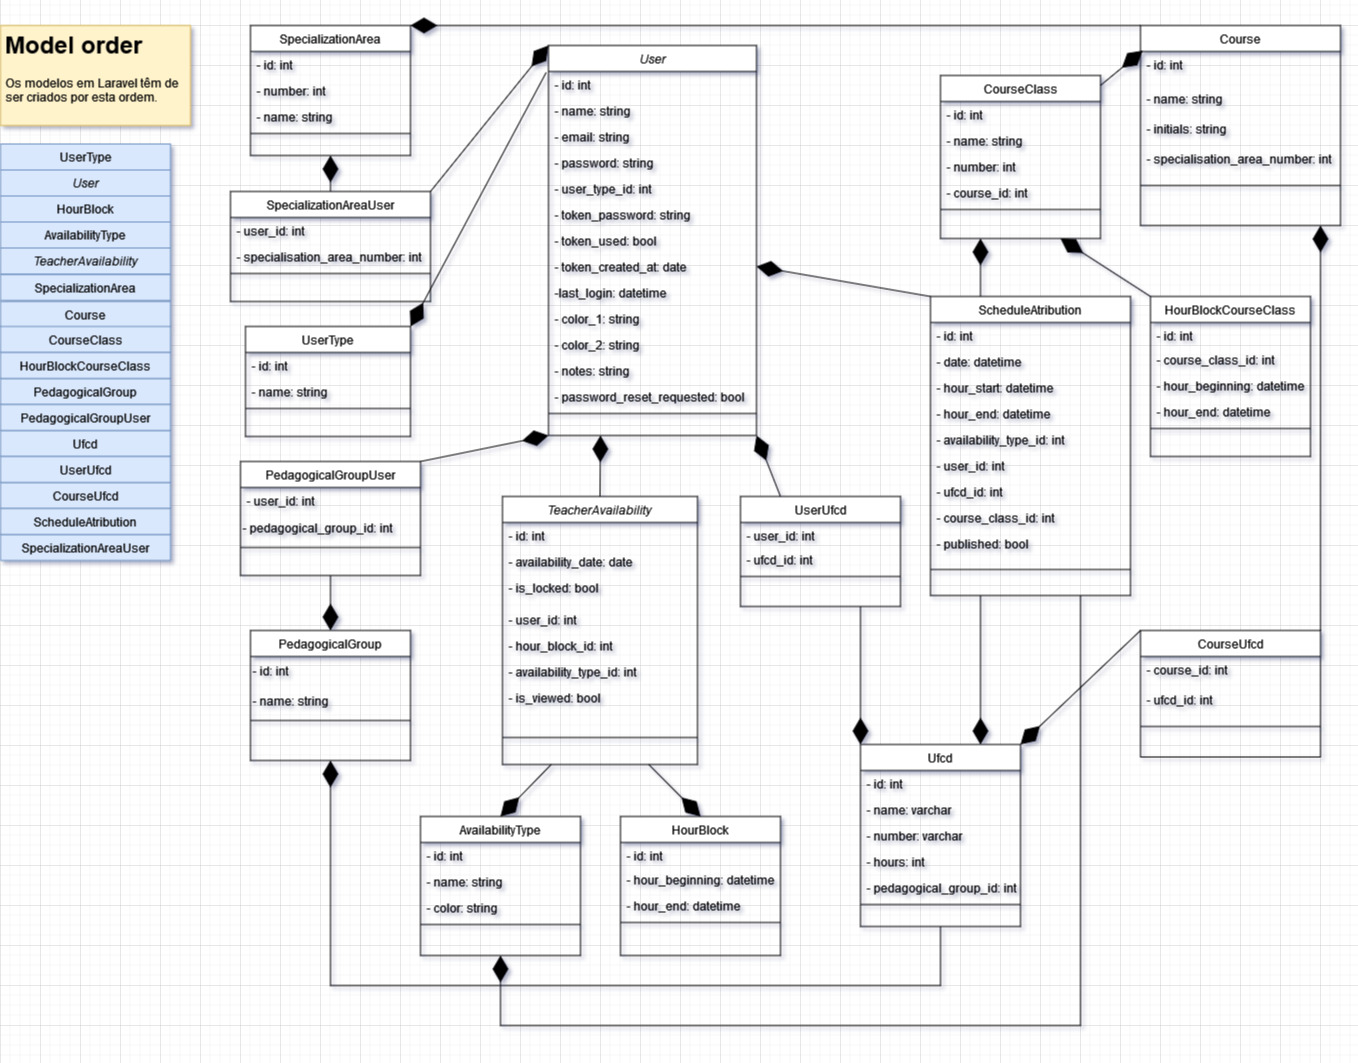
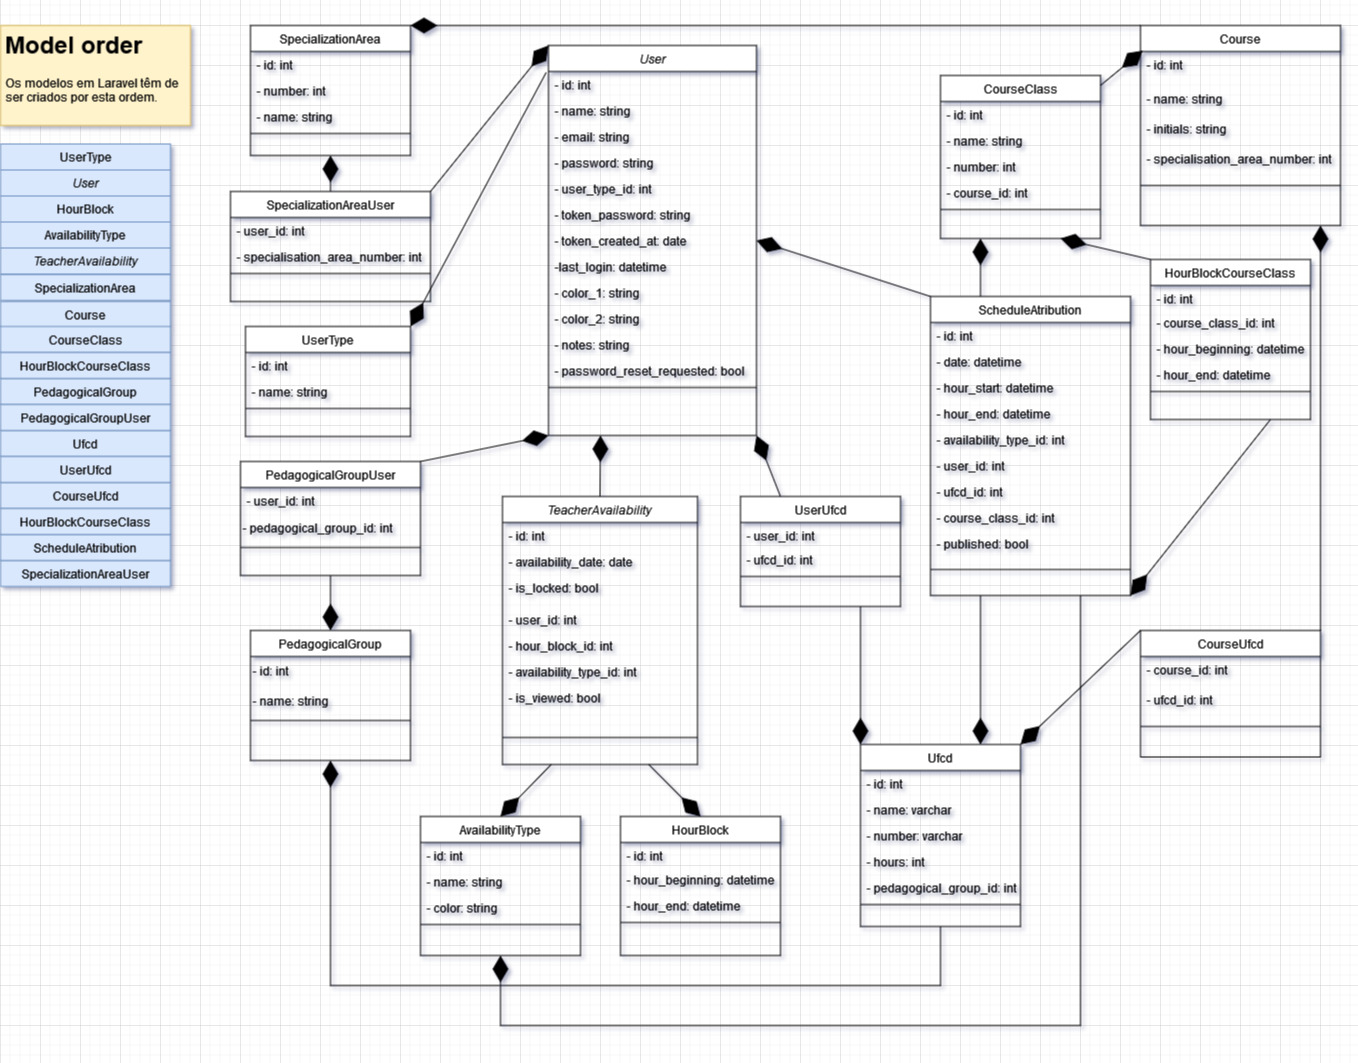
Alterações BD
Criação de relação entre blocos de horarios de uma turma e as suas atribuições
Actualizaçaõ de models, seeders e factories
Actualização de documentação

diff --git a/Projecto/AgileWing/database/factories/ScheduleAtributionFactory.php b/Projecto/AgileWing/database/factories/ScheduleAtributionFactory.php
@@ -1,49 +1,30 @@
 <?php
 
-/**
- * Generates a random time between the specified start and end times.
- *
- * @param string $start The starting time in 'H:i' format.
- * @param string $end The ending time in 'H:i' format.
- * @return string The randomly generated time in 'H:i' format.
- */
-function randomTime($start, $end) {
-    $startTimestamp = strtotime($start);
-    $endTimestamp = strtotime($end);
-
-    // Calculate the number of 15-minute intervals between the start and end timestamps
-    $intervals = ($endTimestamp - $startTimestamp) / (15 * 60);
-
-    // Choose a random interval
-    $randomInterval = mt_rand(0, $intervals - 1);
-
-    // Calculate the random timestamp using the selected interval
-    $randomTimestamp = $startTimestamp + ($randomInterval * 15 * 60);
-
-    return date('H:i', $randomTimestamp);
-}
-
 /** @var \Illuminate\Database\Eloquent\Factory $factory */
 
 use Faker\Generator as Faker;
 use App\ScheduleAtribution;
-use App\AvailabilityType;
+use App\HourBlockCourseClass;
 use App\CourseClass;
 use App\Ufcd;
 use App\User;
 
 $factory->define(ScheduleAtribution::class, function (Faker $faker) {
-    $hourStart = randomTime('08:15', '21:15');
-    $hourEnd = date('H:i', strtotime($hourStart . ' +2 hours'));
-    
-    return [
-        'date'                  => $faker->dateTimeBetween('tomorrow', '+10 days'),
-        'hour_start'            => $hourStart,
-        'hour_end'              => $hourEnd,
-        'availability_type_id'  => $faker->numberBetween(2, 3),
-        'course_class_id'       => CourseClass::all()->random()->id,
-        'ufcd_id'               => Ufcd::all()->random()->id,
-        'user_id'               => User::all()->random()->id,
-    ];
+    // Selects a random CourseClass
+    $courseClass = CourseClass::all()->random();
+    $courseId = $courseClass->course_id;
 
+    // Selects a random hour block that belongs to the selected courseClass.
+    $hourBlockCourseClass = HourBlockCourseClass::where('course_class_id', $courseClass->id)->get()->random();
+
+    // Selects an UFCD that's associated with the same course.
+    $ufcd = $courseClass->course->ufcds->random();
+
+    return [
+        'date' => $faker->dateTimeBetween('tomorrow', '+10 days'),
+        'hour_block_course_class_id' => $hourBlockCourseClass->id,
+        'availability_type_id' => rand(2, 3),
+        'course_class_id' => $courseClass->id,
+        'ufcd_id' => $ufcd->id,
+    ];
 });

diff --git a/Projecto/AgileWing/database/seeds/UserSeeder.php b/Projecto/AgileWing/database/seeds/UserSeeder.php
@@ -30,7 +30,6 @@ class UserSeeder extends Seeder
                 'password'          =>  bcrypt('password'),
                 'user_type_id'      => 1,
                 'token_password'    => bcrypt(Str::random(10)),
-                'token_used'        => true,
                 'token_created_at'  => now(),
                 'last_login'        => now(),
                 'created_at'        => now(),
@@ -43,7 +42,6 @@ class UserSeeder extends Seeder
                 'password'          =>  bcrypt('password'), 
                 'user_type_id'      => 2,
                 'token_password'    => bcrypt(Str::random(10)),
-                'token_used'        => true,
                 'token_created_at'  => now(),
                 'last_login'        => now(),
                 'created_at'        => now(),

diff --git a/Projecto/AgileWing/database/migrations/2023_08_13_110942_create_schedule_atributions_table.php b/Projecto/AgileWing/database/migrations/2023_08_13_110942_create_schedule_atributions_table.php
@@ -16,9 +16,8 @@ class CreateScheduleAtributionsTable extends Migration
         Schema::create('schedule_atributions', function (Blueprint $table) {
             $table->id();
             $table->date('date');
-            $table->time('hour_start');
-            $table->time('hour_end');
             $table->boolean('published')->default(false);
+            $table->foreignid('hour_block_course_class_id')->constrained();
             $table->foreignid('availability_type_id')->constrained();
             $table->foreignid('course_class_id')->constrained()->onDelete('cascade');
             $table->foreignid('ufcd_id')->constrained()->onDelete('cascade');

diff --git a/Projecto/AgileWing/database/seeds/ScheduleAtributionSeeder.php b/Projecto/AgileWing/database/seeds/ScheduleAtributionSeeder.php
@@ -13,9 +13,10 @@ class ScheduleAtributionSeeder extends Seeder
      */
     public function run()
     {
-        User::all()->each(function ($user) {
-            // For each user, create 10 schedule attributions
-            factory(ScheduleAtribution::class, 10)->create(['user_id' => $user->id]);
+
+        User::where('user_type_id', '<>', 2)->get()->each(function ($user) {
+            factory(ScheduleAtribution::class, 30)->create(['user_id' => $user->id]);
         });
+        
     }
 }

diff --git a/Projecto/AgileWing/database/migrations/2014_10_12_000000_create_users_table.php b/Projecto/AgileWing/database/migrations/2014_10_12_000000_create_users_table.php
@@ -23,7 +23,6 @@ class CreateUsersTable extends Migration
             $table->foreignid('user_type_id')->constrained();
             $table->timestamp('email_verified_at')->nullable();
             $table->string('token_password')->nullable();
-            $table->boolean('token_used')->default(false);
             $table->date('token_created_at')->nullable();
             $table->boolean('password_reset_resquested')->default(false);
             $table->text('notes')->nullable();

diff --git a/Projecto/AgileWing/database/seeds/DatabaseSeeder.php b/Projecto/AgileWing/database/seeds/DatabaseSeeder.php
@@ -24,8 +24,8 @@ class DatabaseSeeder extends Seeder
        $this->call(UfcdSeeder::class);
        $this->call(UserUfcdSeeder::class);
        $this->call(CourseUfcdSeeder::class);
+       $this->call(HourBlockCourseClassSeeder::class);
        $this->call(ScheduleAtributionSeeder::class);
        $this->call(SpecializationAreaUserSeeder::class);
-       $this->call(HourBlockCourseClassSeeder::class);
     }
 }

diff --git a/Projecto/AgileWing/database/factories/UserFactory.php b/Projecto/AgileWing/database/factories/UserFactory.php
@@ -28,7 +28,6 @@ $factory->define(User::class, function (Faker $faker) {
         'email_verified_at' => now(), 
         'user_type_id'     => 2,
         'token_password'   => bcrypt(Str::random(10)),
-        'token_used'       => true,
         'token_created_at' => now(),
         'notes'            => $faker->paragraph,
         'last_login'       => now(),

diff --git a/Projecto/AgileWing/app/ScheduleAtribution.php b/Projecto/AgileWing/app/ScheduleAtribution.php
@@ -9,6 +9,11 @@ class ScheduleAtribution extends Model
 {
     use SoftDeletes;
 
+    public function hourBlockCourseClass()
+    {
+        return $this->belongsTo(HourBlockCourseClass::class, 'hour_block_course_class_id');
+    }
+
     public function availabilityType()
     {
         return $this->belongsTo(AvailabilityType::class, 'availability_type_id');

diff --git a/Projecto/AgileWing/app/HourBlockCourseClass.php b/Projecto/AgileWing/app/HourBlockCourseClass.php
@@ -10,6 +10,11 @@ use App\CourseClass;
 class HourBlockCourseClass extends Model
 {
     use SoftDeletes;
+
+    public function scheduleAtributions()
+    {
+        return $this->hasMany(ScheduleAtribution::class);
+    }
     
     public function courseClass()
     {

diff --git a/Projecto/AgileWing/resources/views/pages/emails/reset-password.blade.php b/Projecto/AgileWing/resources/views/pages/emails/reset-password.blade.php
@@ -1,2 +1,2 @@
-<p>Email de teste. Segue o link para reposição de palaravra passe:</p>
+<p>Segue o link para reposição de palaravra passe:</p>
 <p>Link : <a href="{{ $resetPasswordUrl }}">{{ $resetPasswordUrl }}</a> </p>

diff --git a/Projecto/AgileWing/resources/views/pages/emails/verify-email-new-user.blade.php b/Projecto/AgileWing/resources/views/pages/emails/verify-email-new-user.blade.php
@@ -1,2 +1,2 @@
-<p>Email de teste. Vamos ver se pinta!</p>
+<p>Bem vindo à ATEC, vamos todos colaborar por um futuro melhor!</p>
 <p>Link de autenticação: <a href="{{ $verificationUrl }}">{{ $verificationUrl }}</a> </p>
